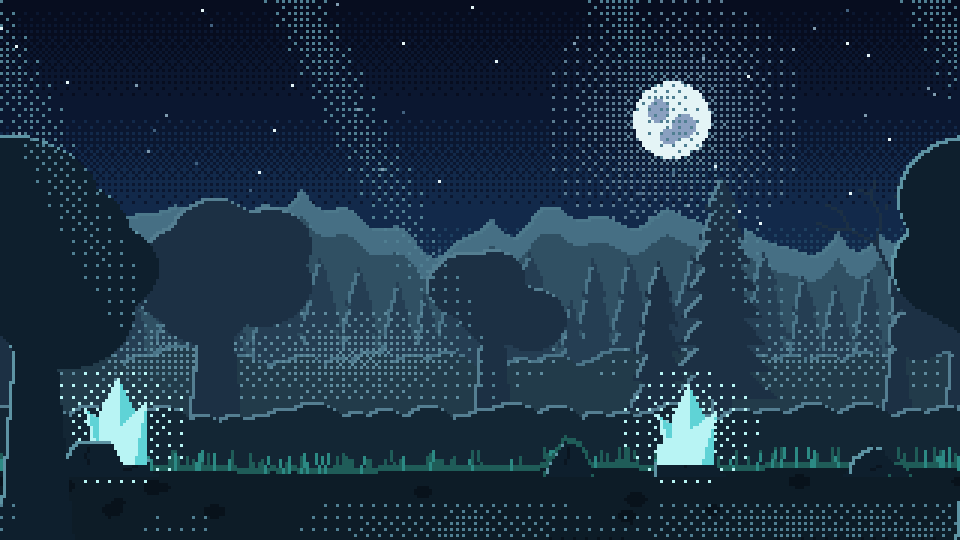
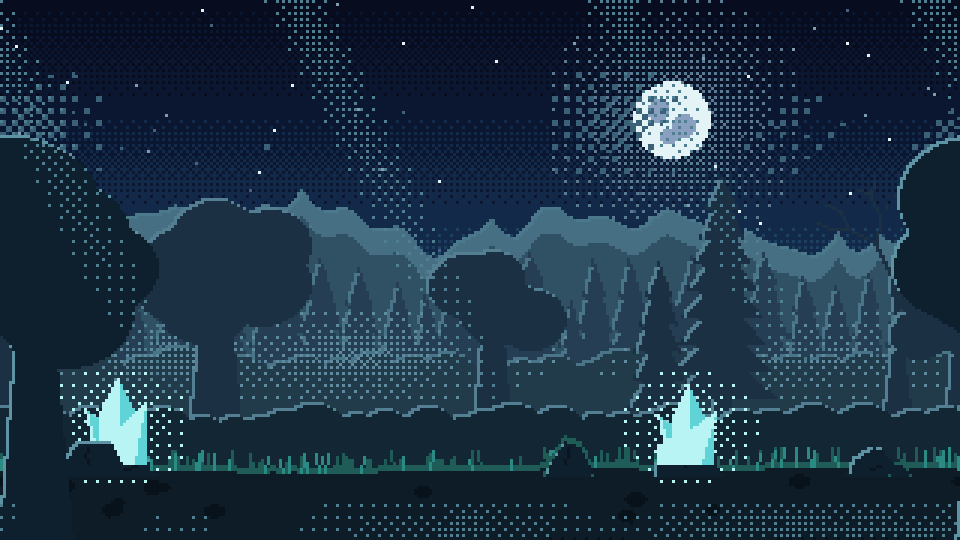
fix: nuvem em fiapo rala desenha em qualquer seed
O corte da densidade era absoluto, mas o alcance do ruído muda com a seed;
com densidade baixa o campo nunca passava do limiar e a camada saía vazia.
Agora o ruído é medido no miolo da faixa e a densidade vale igual para todas.
Regenera o exemplo metroidvania-noturno, que ganha as nuvens.

diff --git a/pixel_atelier/formas/nuvem.py b/pixel_atelier/formas/nuvem.py
@@ -67,9 +67,18 @@ def nuvem(
     ruido_b = ruido_periodico(semente(seed, 7), largura, 8, queda=0.3)
     centro, meia = (topo + fundo) / 2, max(1.0, (fundo - topo) / 2)
 
+    def bruto(x: int, y: int) -> float:
+        return ruido_a(x) * 0.7 + ruido_b(x * 2 + y * 3) * 0.3
+
+    # o alcance do ruído muda com a seed: medido no miolo da faixa, a densidade vale igual para todas
+    linhas_do_miolo = range(int(centro - meia / 2), int(centro + meia / 2) + 1)
+    valores = [bruto(x, y) for y in linhas_do_miolo for x in range(largura)]
+    menor = min(valores)
+    alcance = max(valores) - menor or 1.0
+
     def campo(x: int, y: int) -> float:
         faixa_y = max(0.0, 1 - abs(y - centro) / meia)
-        v = (ruido_a(x) * 0.5 + 0.5) * 0.7 + (ruido_b(x * 2 + y * 3) * 0.5 + 0.5) * 0.3
+        v = (bruto(x, y) - menor) / alcance
         return max(0.0, v - (1 - densidade)) * 2.0 * faixa_y
 
     mascara = tela.pontilhar(campo, escala=2)

diff --git a/tests/test_formas.py b/tests/test_formas.py
@@ -145,3 +145,18 @@ def test_profundidade_aproxima_da_atmosfera():
         return sum(n * sum((c[i] - alvo[i]) ** 2 for i in range(3)) ** 0.5 for n, c in cores) / total
 
     assert distancia_media(0.9) < distancia_media(0.0)
+
+
+@pytest.mark.parametrize("densidade", [0.1, 0.2, 0.3])
+@pytest.mark.parametrize("seed", range(12))
+def test_nuvem_em_fiapo_rala_desenha_em_qualquer_seed(seed, densidade):
+    imagem = gerar("nuvem", seed=seed, tipo="fiapo", densidade=densidade)
+    assert imagem.getchannel("A").getbbox() is not None
+
+
+def test_nuvem_em_fiapo_enche_mais_com_mais_densidade():
+    def acesos(densidade: float) -> int:
+        alfa = gerar("nuvem", seed=2, tipo="fiapo", densidade=densidade).getchannel("A")
+        return alfa.histogram()[255]
+
+    assert 0 < acesos(0.1) < acesos(0.3) < acesos(0.6)
